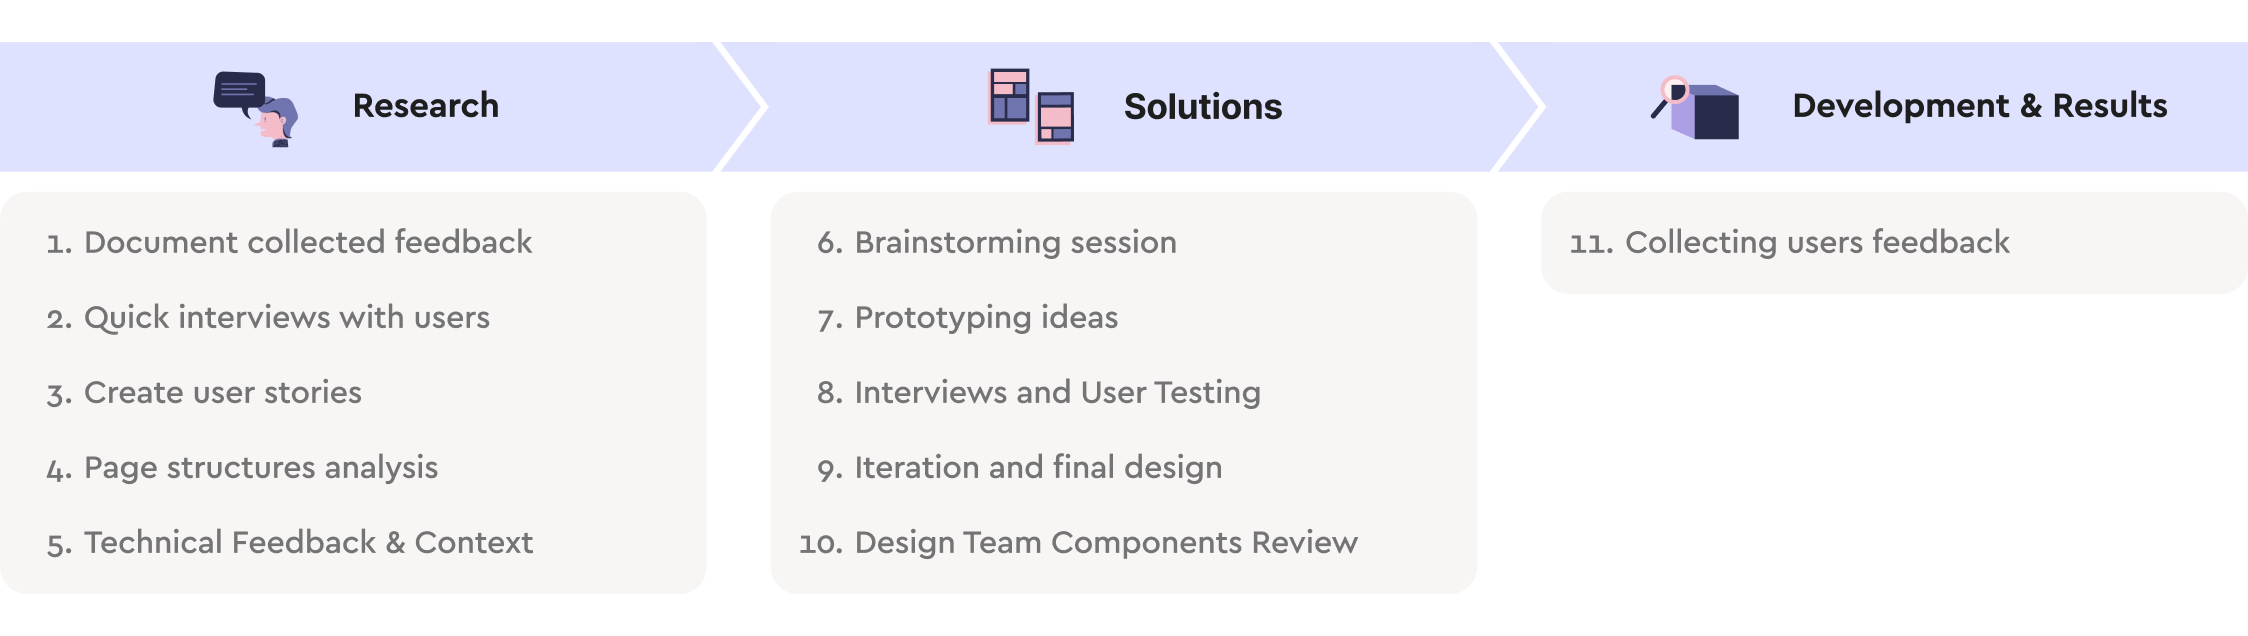
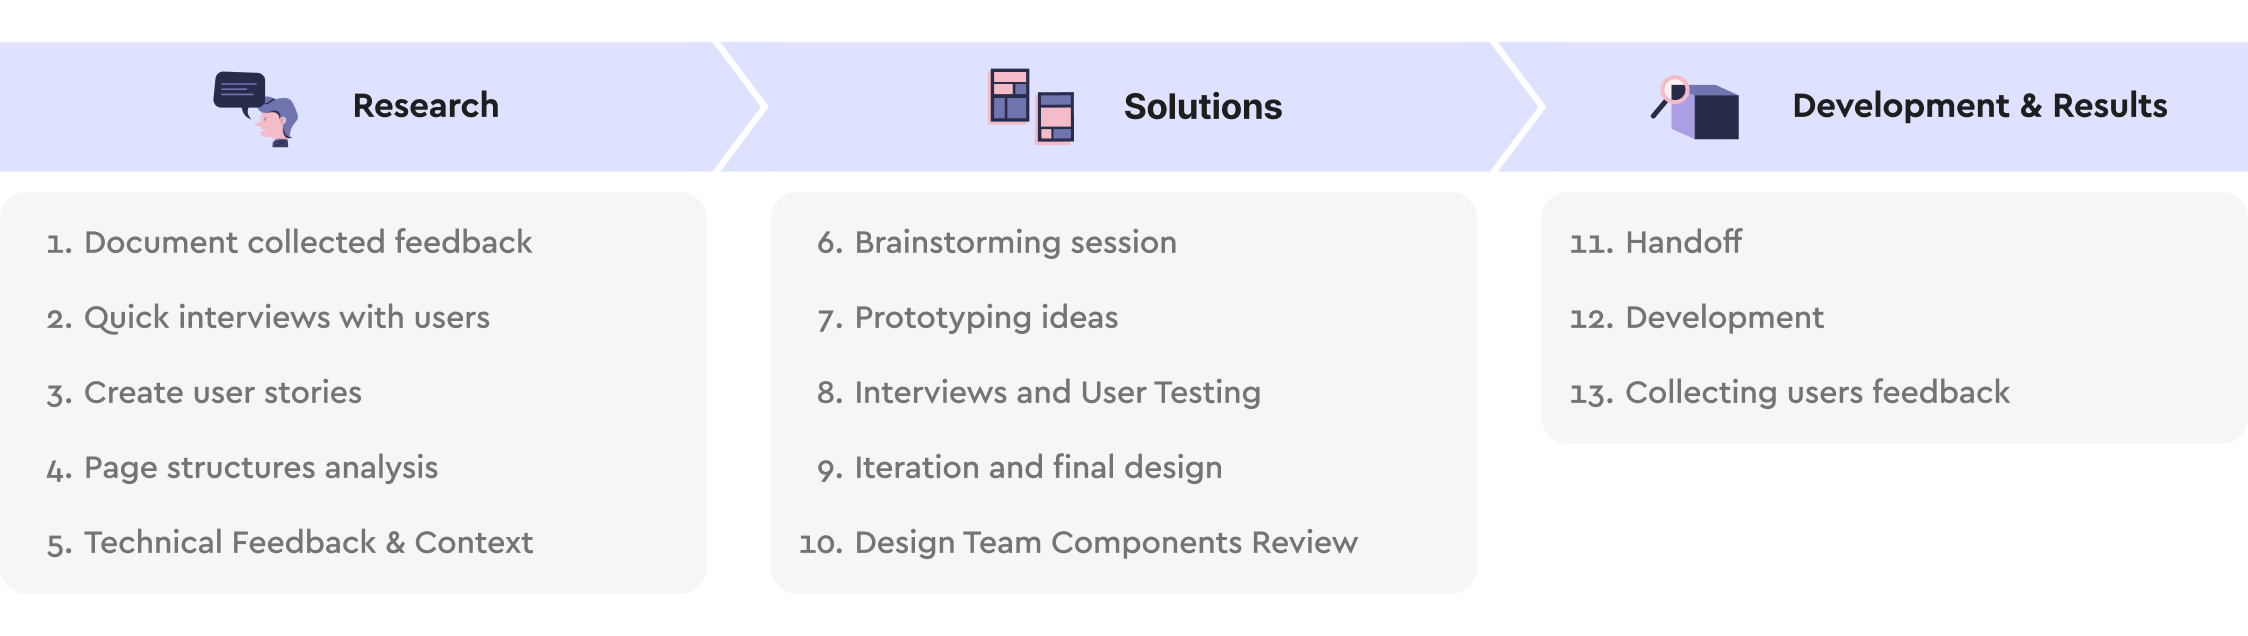
timelines

Changed region(s): [[0.6851, 0.5975, 0.903, 0.6572], [0.7162, 0.3585, 0.903, 0.4182], [0.6851, 0.478, 0.8096, 0.5377]]

diff --git a/project-timeular.html b/project-timeular.html
@@ -52,14 +52,15 @@
               <li>Accomplish their goals or get insights to help them if not.</li>
             </ul>
 
-            <h2>Team</h2>
+            <h2>Team & Process</h2>
             <ul>
               <li>Lead Designer: Stefania</li>
               <li>Manager: CEO and CTO </li>
               <li>Collaborators: At Timeular, we used an OKRs approach where the entire company was encouraged to contribute proposals and ideas to achieve our objectives. We held regular feedback sessions to ensure that everyone’s input was considered and integrated into our strategies.</li>
             </ul>
+            <img src="img/projects/timeular/timeline.png"/>
 
-            <h2>Brainstorming</h2>
+            <h2>Ideation & Brainstorming</h2>
             <p>Our initial step was to brainstorm potential and realistic goals to identify different types and their structures. <br>Through this process, we categorized the goals as follows: </p>
             <ul>
               <li>Goals aimed at scheduling tasks or activities.</li>
@@ -68,6 +69,10 @@
             </ul>
             <p>By categorizing goals in this manner, users can better understand how to set up their goals with clear outcomes and commitments.</p>
             <img src="img/projects/timeular/01.png"/>
+
+            <h2>Benchmark</h2>
+            <p>To align with our goal-setting and scheduling objectives, I conducted a benchmarking analysis focused on these areas. I identified counter and progress bar components as valuable tools for visualizing progress across various goal types. Additionally, I found Google Calendar's approach to scheduling particularly insightful for helping users allocate their ideal time investment effectively.</p>
+            <img src="img/projects/timeular/00.png"/>
 
             <h2>Prototype and user testing</h2>
             <p>Armed with this valuable insight, I proceeded to develop a comprehensive solution capable of accommodating all potential scenarios. I created an interactive prototype to test with users, beginning with interviews to gain a deeper understanding of their real-life challenges and time-management needs.</p>

diff --git a/project-levcapital.html b/project-levcapital.html
@@ -55,7 +55,7 @@
               <li>Manager: Project Manager</li>
               <li>Collaborators: The development team.</li>
             </ul>
-            <img src="img/projects/lev/timeline.png">
+            <img src="img/projects/lev/timeline.png"/>
 
               <h2>📙 Documentation Management</h2>
               <p>In this project, the primary focus was to ensure seamless and transparent communication between brokers and borrowers within the platform. They collaborate on a range of tasks, including document requests and information sharing from the borrower.</p>
